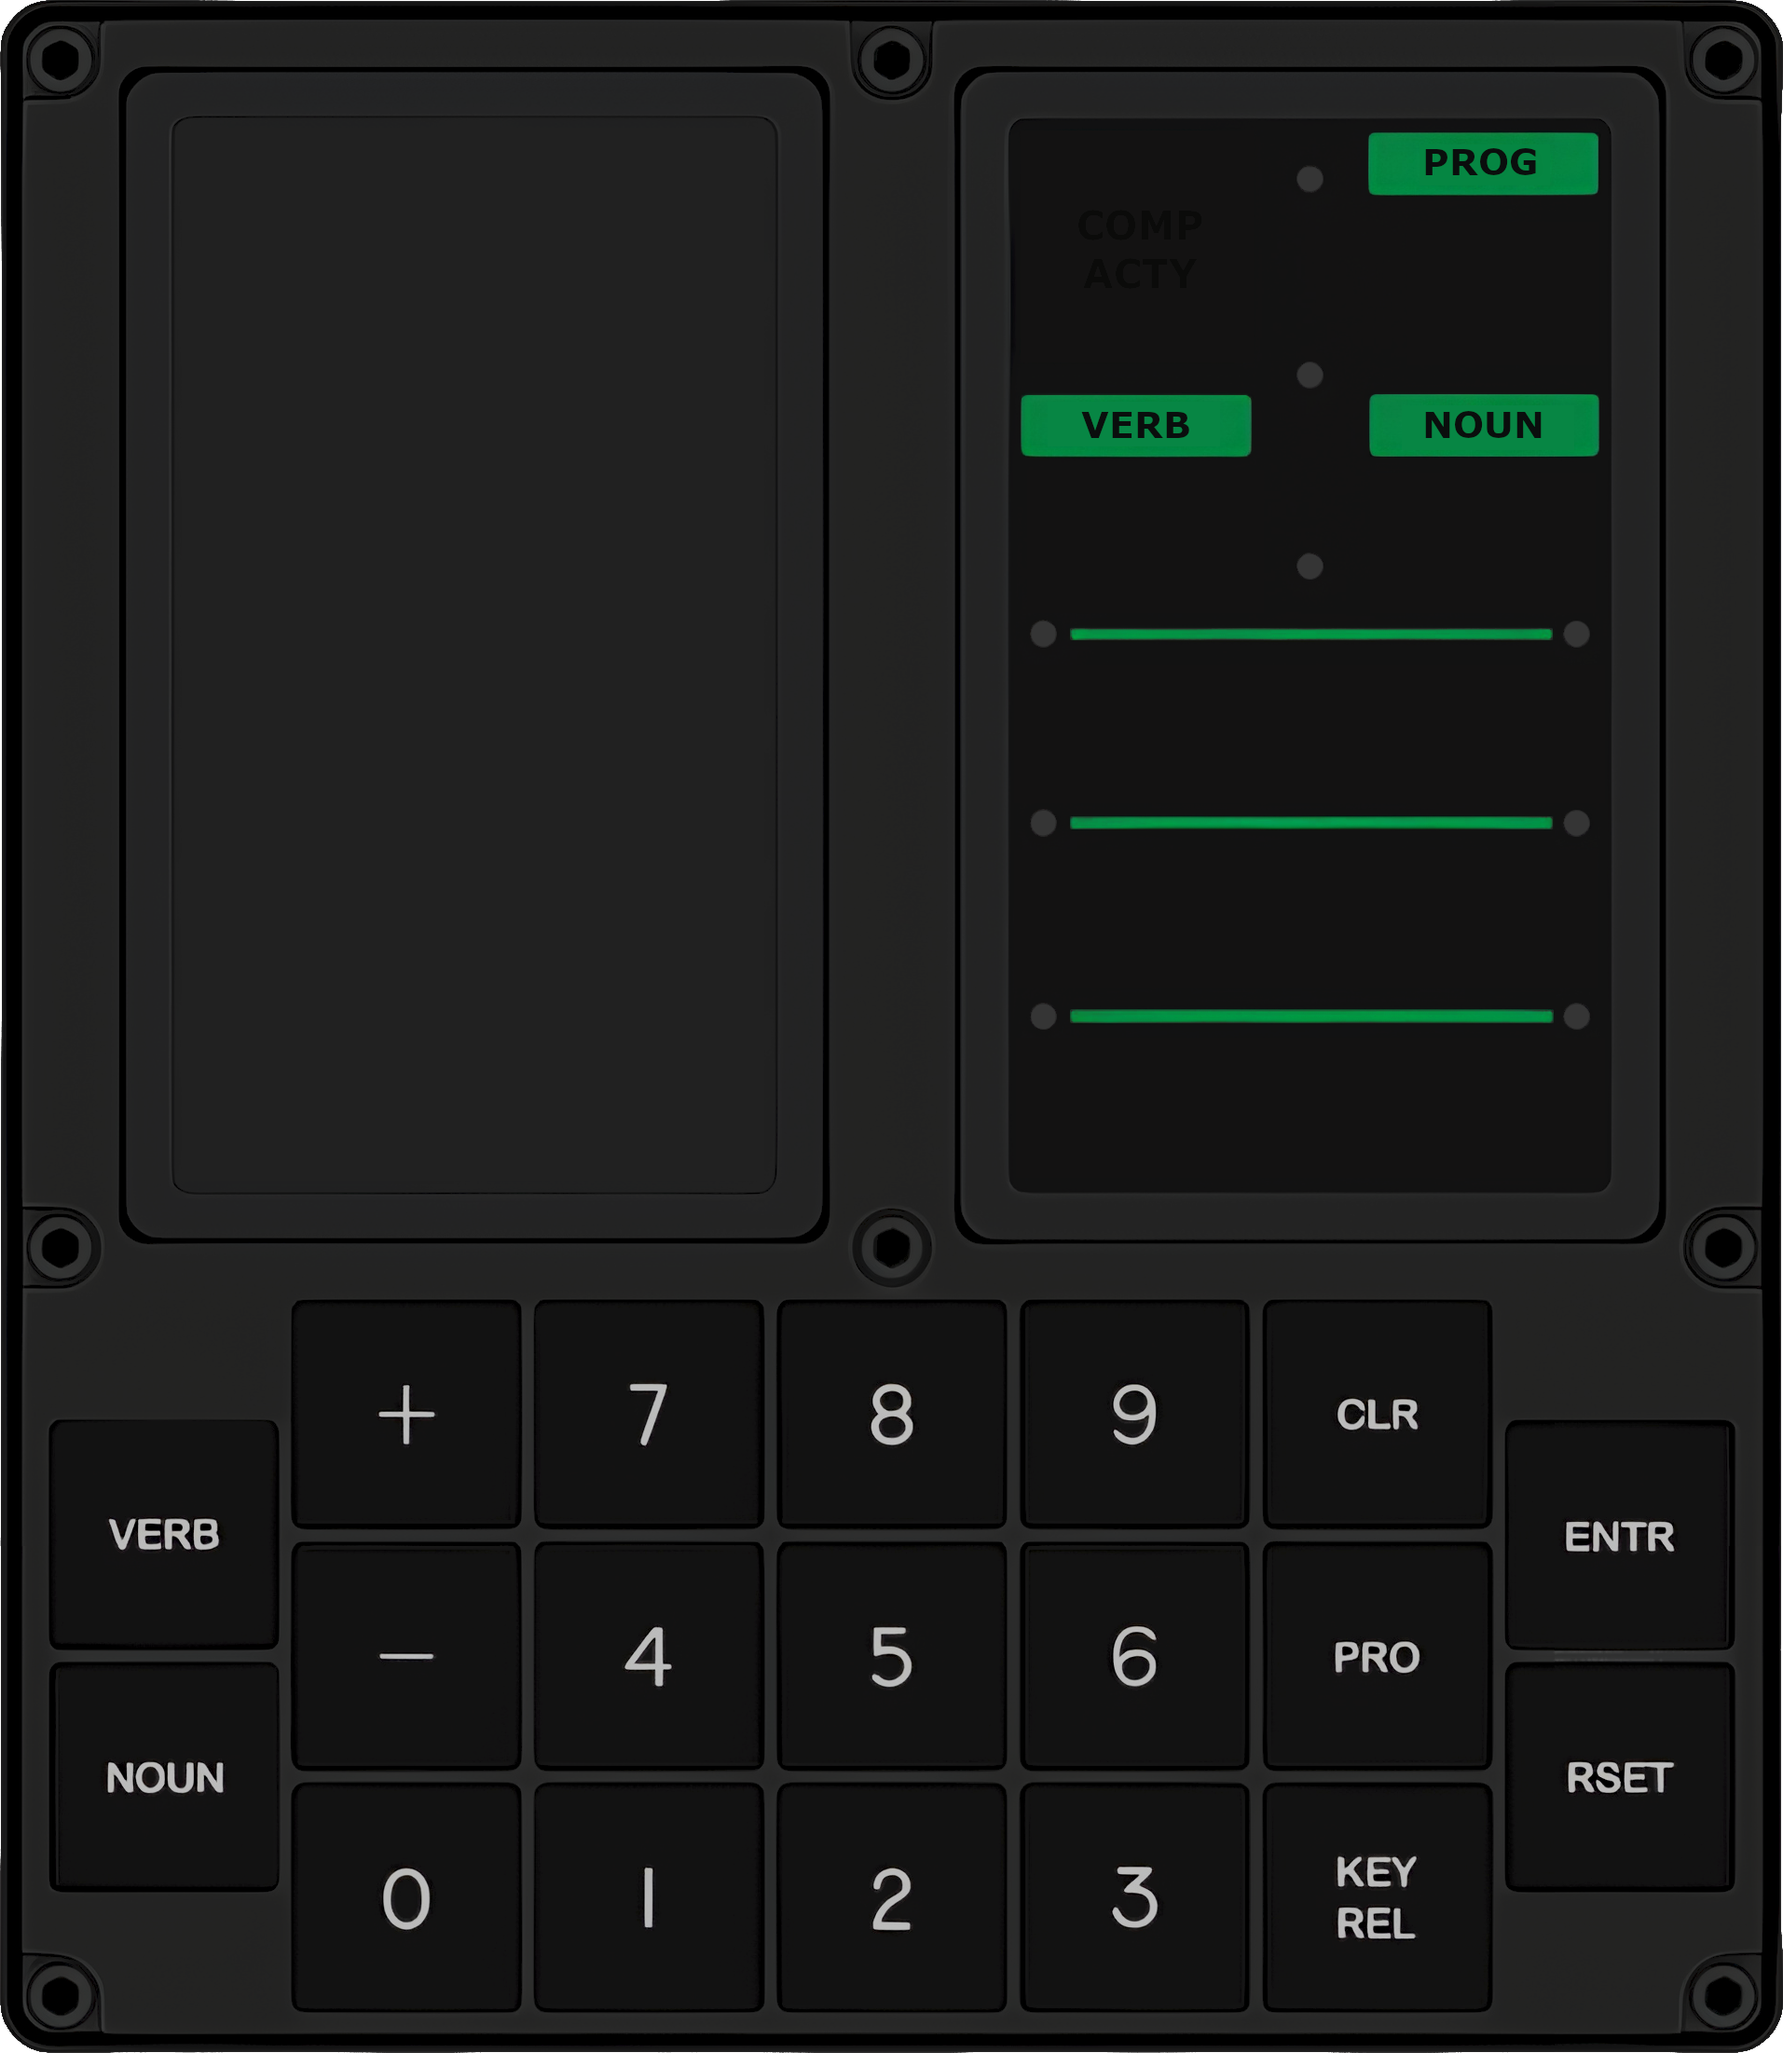
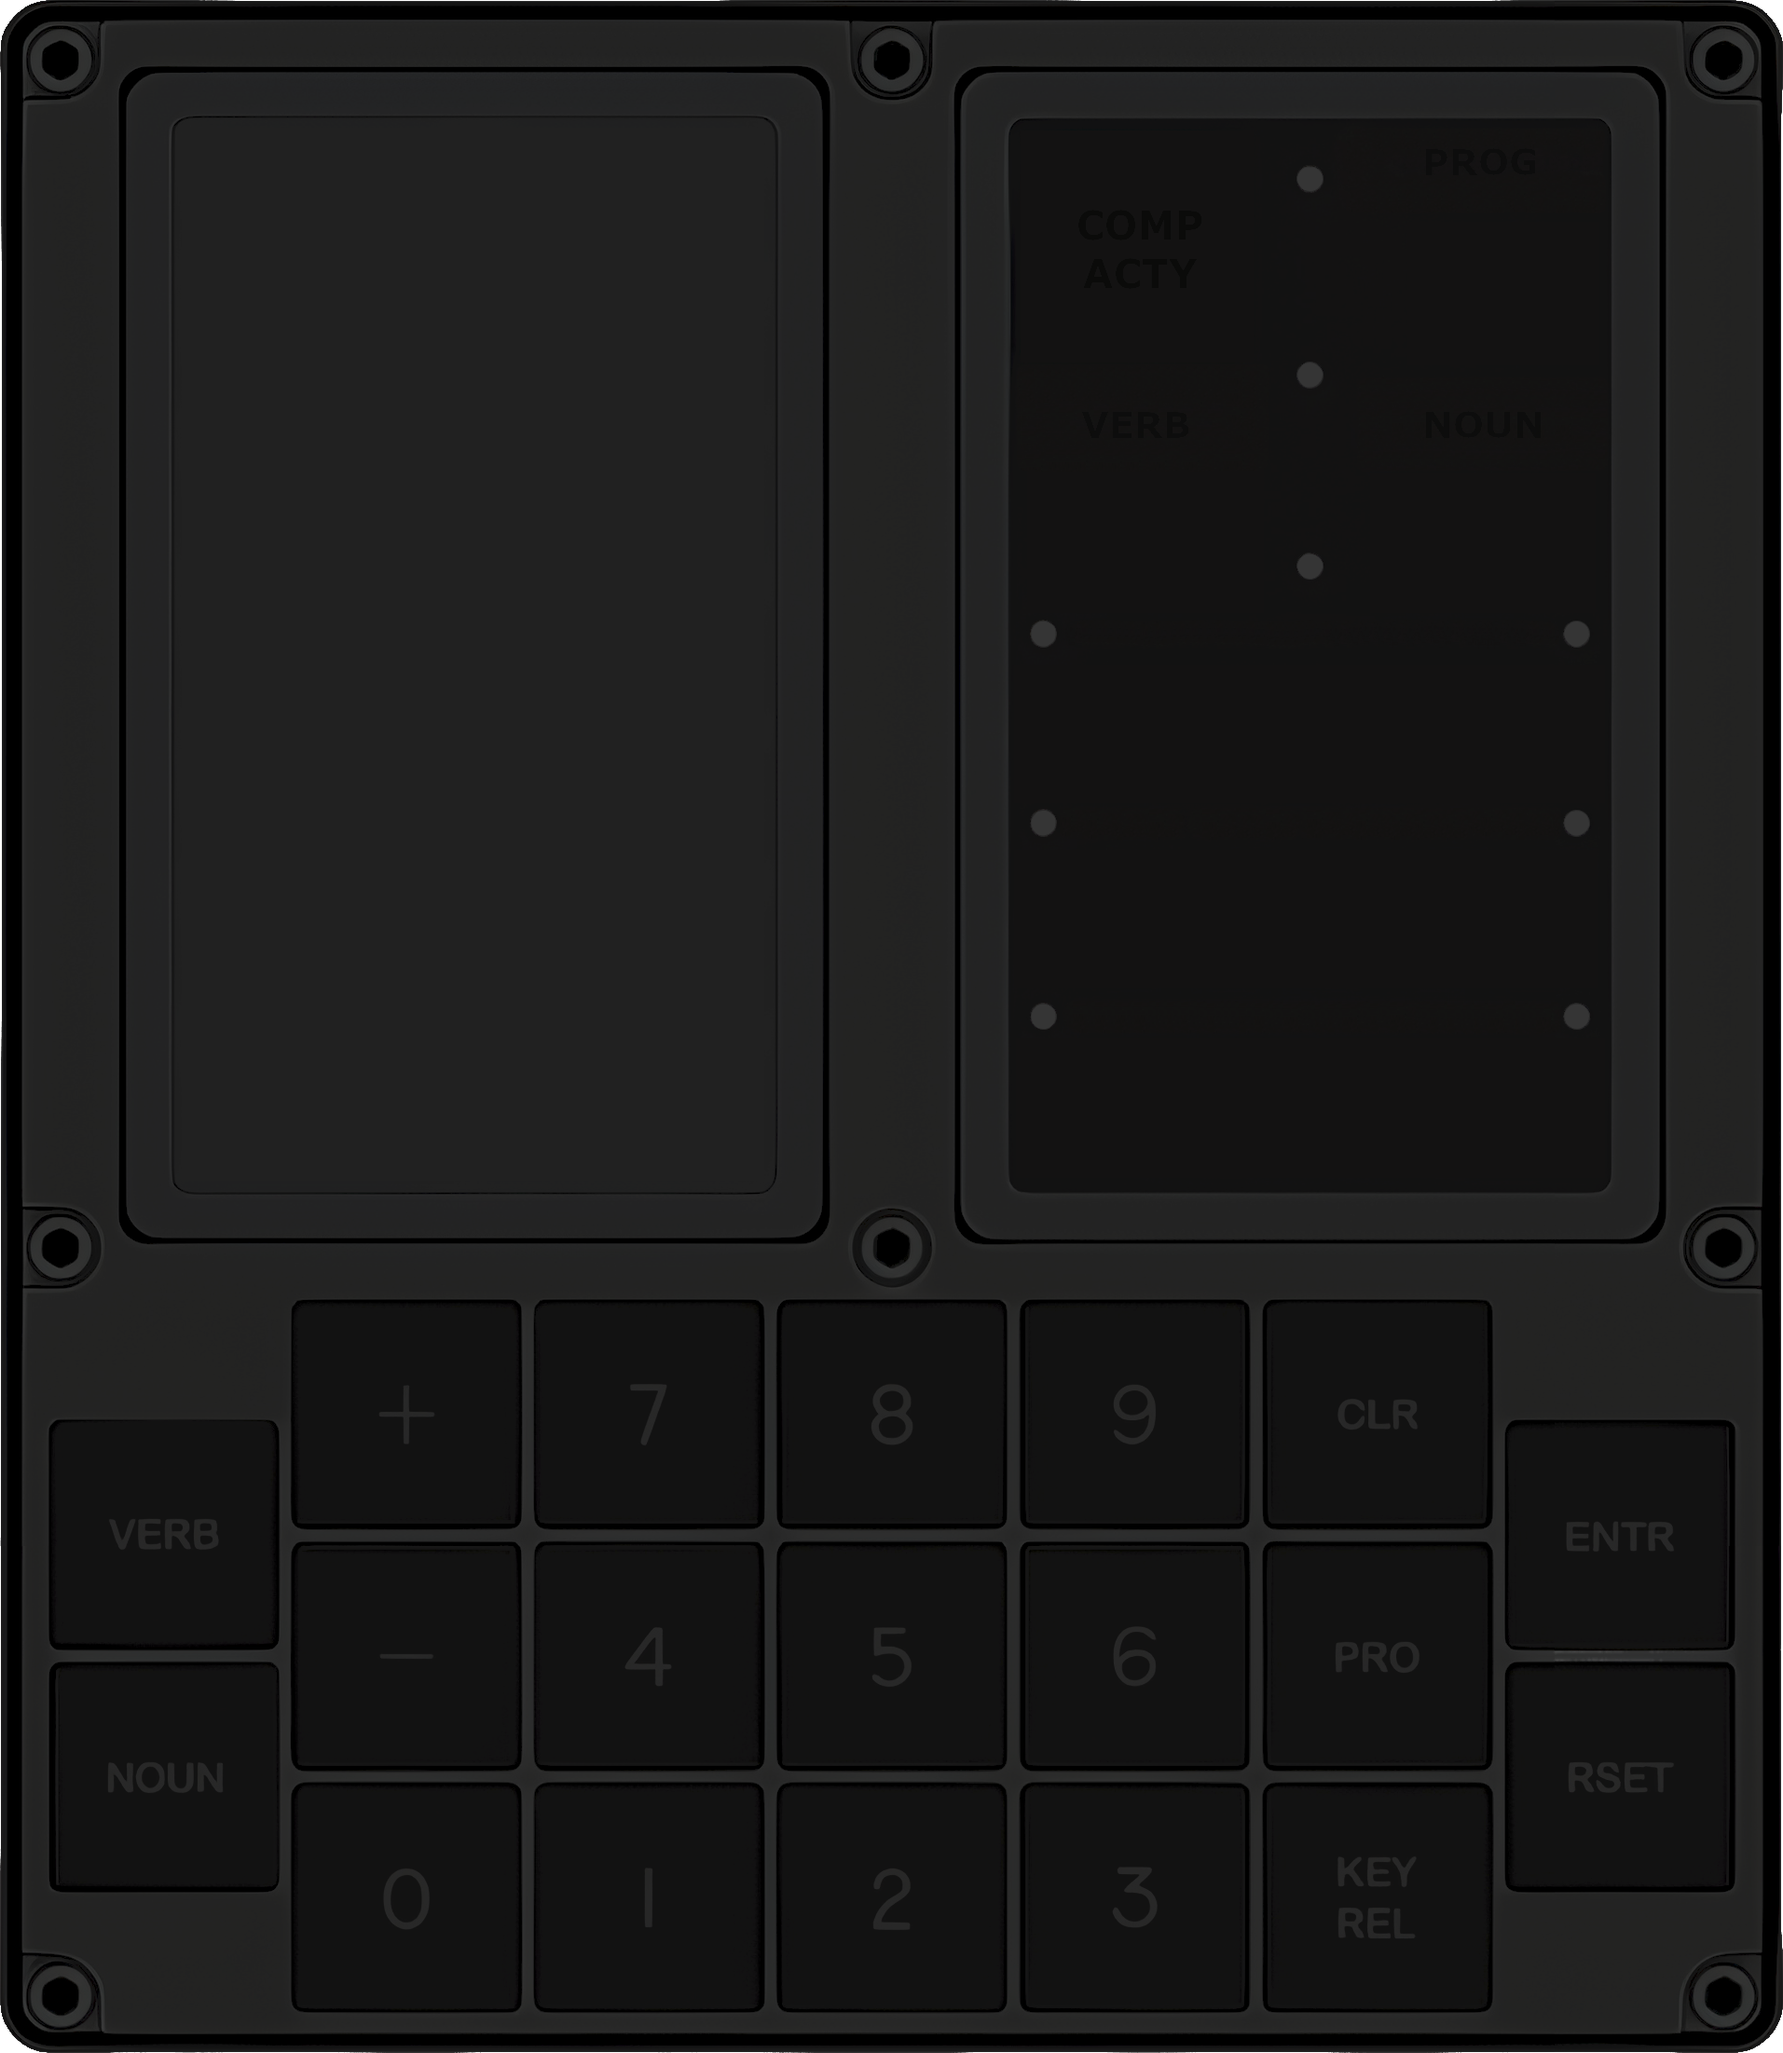
1.1.0
- implemented numerics and integral brightness control logic
- replaced keypress sound

diff --git a/src/CMCEx.Desktop/Views/MainWindow.xaml b/src/CMCEx.Desktop/Views/MainWindow.xaml
@@ -88,6 +88,26 @@
                             IsHitTestVisible="False" />
                      </Border>
 
+                     <!-- Keypad backlight overlay (BrightnessIntegral: 0 → full, 1.4 → none) -->
+                     <Image x:Name="KeypadBacklightOverlay"
+                            HorizontalAlignment="Left"
+                            VerticalAlignment="Top"
+                            Source="pack://application:,,,/Assets/Images/keypad_bcklt.png"
+                            Stretch="Fill"
+                            Panel.ZIndex="2"
+                            IsHitTestVisible="False"
+                            Opacity="0" />
+
+                     <!-- Display backlight overlay (BrightnessNumerics: 0 → full, 1.4 → none) -->
+                     <Image x:Name="DisplayBacklightOverlay"
+                            HorizontalAlignment="Left"
+                            VerticalAlignment="Top"
+                            Source="pack://application:,,,/Assets/Images/display_bcklt.png"
+                            Stretch="Fill"
+                            Panel.ZIndex="3"
+                            IsHitTestVisible="False"
+                            Opacity="0" />
+
                      <!-- Keypad press shadow overlay (shown while any functional HitBox button is pressed) -->
                      <Image x:Name="KeypressShadow" Panel.ZIndex="19"
                             HorizontalAlignment="Left" VerticalAlignment="Top"

diff --git a/src/CMCEx.Desktop/Views/MainWindow.xaml.cs b/src/CMCEx.Desktop/Views/MainWindow.xaml.cs
@@ -620,11 +620,22 @@ namespace CMC // keep this namespace if your XAML is still x:Class="CMC.MainWind
             }
         }
 
-// UI update
+        // UI update
         public void UpdateStoredValues()
         {
             ApplyPowerGating(IsPowered);
-            if (!IsPowered) return;
+
+            // When power is off, force backlights off and bail out.
+            if (!IsPowered)
+            {
+                if (KeypadBacklightOverlay is not null)
+                    KeypadBacklightOverlay.Opacity = 0.0;
+
+                if (DisplayBacklightOverlay is not null)
+                    DisplayBacklightOverlay.Opacity = 0.0;
+
+                return;
+            }
 
             LmOnlyPanel.Visibility = CMCStorage.IsInCM ? Visibility.Collapsed : Visibility.Visible;
             Verb.Content = CMCStorage.HideVerb ? "" : $"{CMCStorage.VerbD1}{CMCStorage.VerbD2}";
@@ -635,31 +646,44 @@ namespace CMC // keep this namespace if your XAML is still x:Class="CMC.MainWind
             Register2.Content = $"{CMCStorage.Register2Sign}{CMCStorage.Register2D1}{CMCStorage.Register2D2}{CMCStorage.Register2D3}{CMCStorage.Register2D4}{CMCStorage.Register2D5}";
             Register3.Content = $"{CMCStorage.Register3Sign}{CMCStorage.Register3D1}{CMCStorage.Register3D2}{CMCStorage.Register3D3}{CMCStorage.Register3D4}{CMCStorage.Register3D5}";
 
-            //double numericOpacity = Clamp01(CMCStorage.BrightnessNumerics);
-            double numericOpacity = AreWeDarkMode ? 0.7 : 1.0;
-            Verb.Opacity = numericOpacity;
-            Noun.Opacity = numericOpacity;
-            Prog.Opacity = numericOpacity;
+            // Map brightness → opacity:
+            //  Brightness 1.4 ⇒ opacity 0 (no backlight / digits invisible)
+            //  Brightness 0   ⇒ opacity 1 (full intensity)
+            double numericOpacity   = Clamp01(CMCStorage.BrightnessNumerics / 1.4f);
+            double integralOpacity  = Clamp01(CMCStorage.BrightnessIntegral / 1.4f);
+
+            // Digit opacity (BrightnessNumerics)
+            Verb.Opacity      = numericOpacity;
+            Noun.Opacity      = numericOpacity;
+            Prog.Opacity      = numericOpacity;
             Register1.Opacity = numericOpacity;
             Register2.Opacity = numericOpacity;
             Register3.Opacity = numericOpacity;
 
+            // Backlight overlays
+            if (KeypadBacklightOverlay is not null)
+                KeypadBacklightOverlay.Opacity = integralOpacity;     // BrightnessIntegral
+
+            if (DisplayBacklightOverlay is not null)
+                DisplayBacklightOverlay.Opacity = numericOpacity;     // BrightnessNumerics
+
             // COMP ACTY
             CompActy.Visibility = CMCStorage.IlluminateCompLight ? Visibility.Visible : Visibility.Hidden;
+            CompActy.Opacity = numericOpacity;
 
             // Left side annunciators
             SetAnnunciator(UplinkActy, CMCStorage.IlluminateUplinkActy > 0, "uplinkacty");
-            SetAnnunciator(NoAtt, CMCStorage.IlluminateNoAtt > 0, "noatt");
-            SetAnnunciator(Stby, CMCStorage.IlluminateStby > 0, "stby");
-            SetAnnunciator(KeyRel, CMCStorage.IlluminateKeyRel > 0, "keyrel");
-            SetAnnunciator(OprErr, CMCStorage.IlluminateOprErr > 0, "oprerr");
+            SetAnnunciator(NoAtt,      CMCStorage.IlluminateNoAtt > 0, "noatt");
+            SetAnnunciator(Stby,       CMCStorage.IlluminateStby > 0, "stby");
+            SetAnnunciator(KeyRel,     CMCStorage.IlluminateKeyRel > 0, "keyrel");
+            SetAnnunciator(OprErr,     CMCStorage.IlluminateOprErr > 0, "oprerr");
 
             // Right side annunciators
-            SetAnnunciator(Temp, CMCStorage.IlluminateTemp > 0, "temp");
-            SetAnnunciator(Gimballock, CMCStorage.IlluminateGimbalLock > 0, "gimballock");
-            SetAnnunciator(Program, CMCStorage.IlluminateProg > 0, "prog");
-            SetAnnunciator(Restart, CMCStorage.IlluminateRestart > 0, "restart");
-            SetAnnunciator(Tracker, CMCStorage.IlluminateTracker > 0, "tracker");
+            SetAnnunciator(Temp,      CMCStorage.IlluminateTemp > 0,       "temp");
+            SetAnnunciator(Gimballock,CMCStorage.IlluminateGimbalLock > 0, "gimballock");
+            SetAnnunciator(Program,   CMCStorage.IlluminateProg > 0,       "prog");
+            SetAnnunciator(Restart,   CMCStorage.IlluminateRestart > 0,    "restart");
+            SetAnnunciator(Tracker,   CMCStorage.IlluminateTracker > 0,    "tracker");
 
             // LM-only bottom annunciators
             if (!CMCStorage.IsInCM)
@@ -713,6 +737,16 @@ namespace CMC // keep this namespace if your XAML is still x:Class="CMC.MainWind
             var bg = AreWeDarkMode
                 ? new Uri($"{ImgBase}agc-bg-dark.png", UriKind.Absolute)
                 : new Uri($"{ImgBase}agc-bg.png", UriKind.Absolute);
+
+            // Keypad backlight image: normal vs dark
+            if (KeypadBacklightOverlay is not null)
+            {
+                var keypadUri = AreWeDarkMode
+                    ? new Uri($"{ImgBase}keypad_bcklt-dark.png", UriKind.Absolute)
+                    : new Uri($"{ImgBase}keypad_bcklt.png",      UriKind.Absolute);
+
+                KeypadBacklightOverlay.Source = new BitmapImage(keypadUri);
+            }
 
             MainBackgroundImage.Source = new BitmapImage(bg);
 
